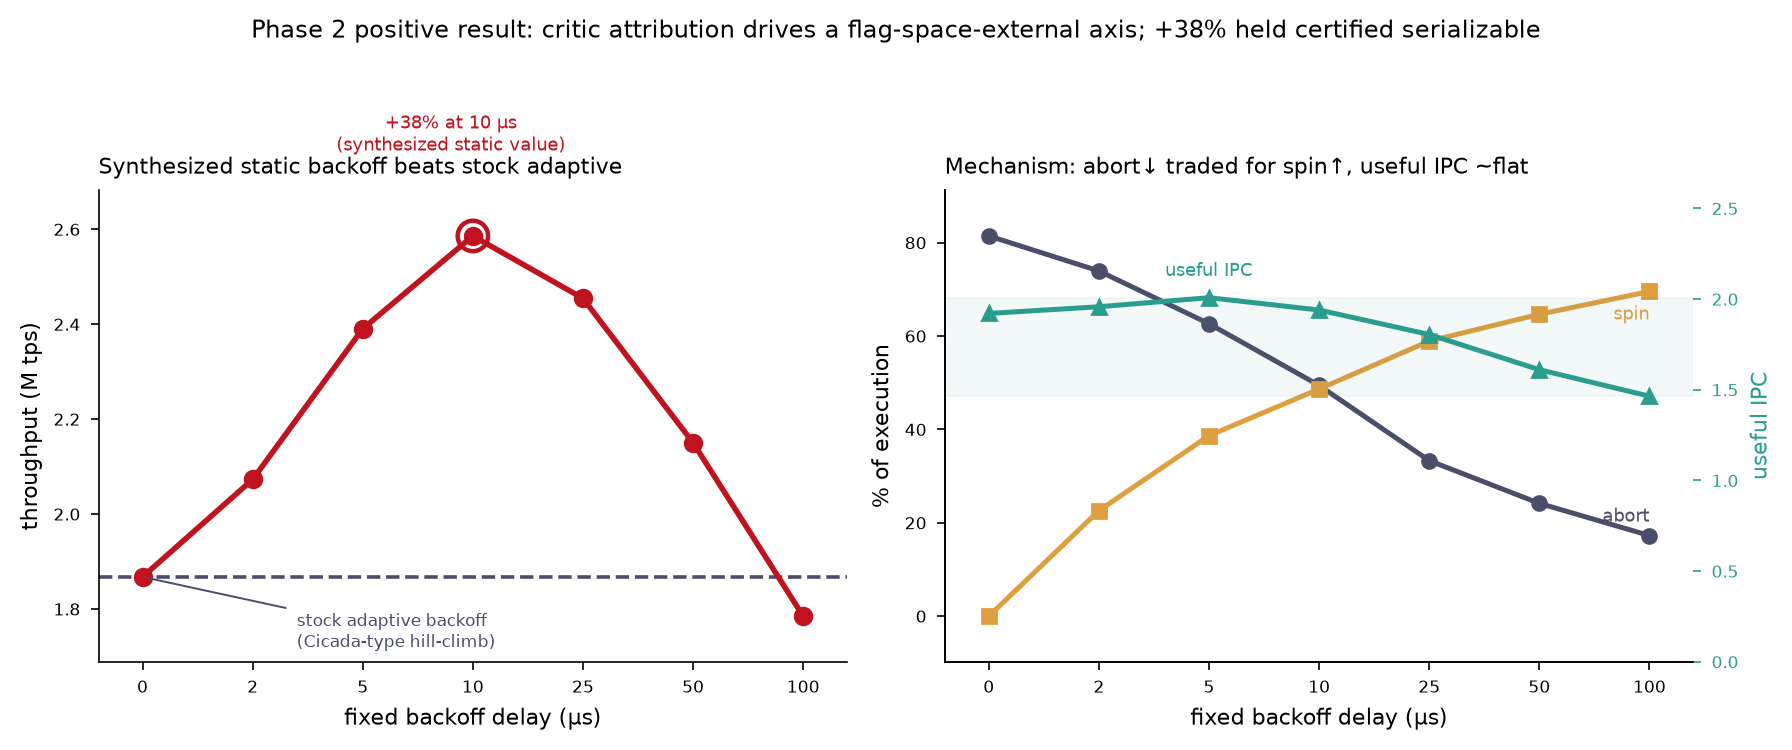
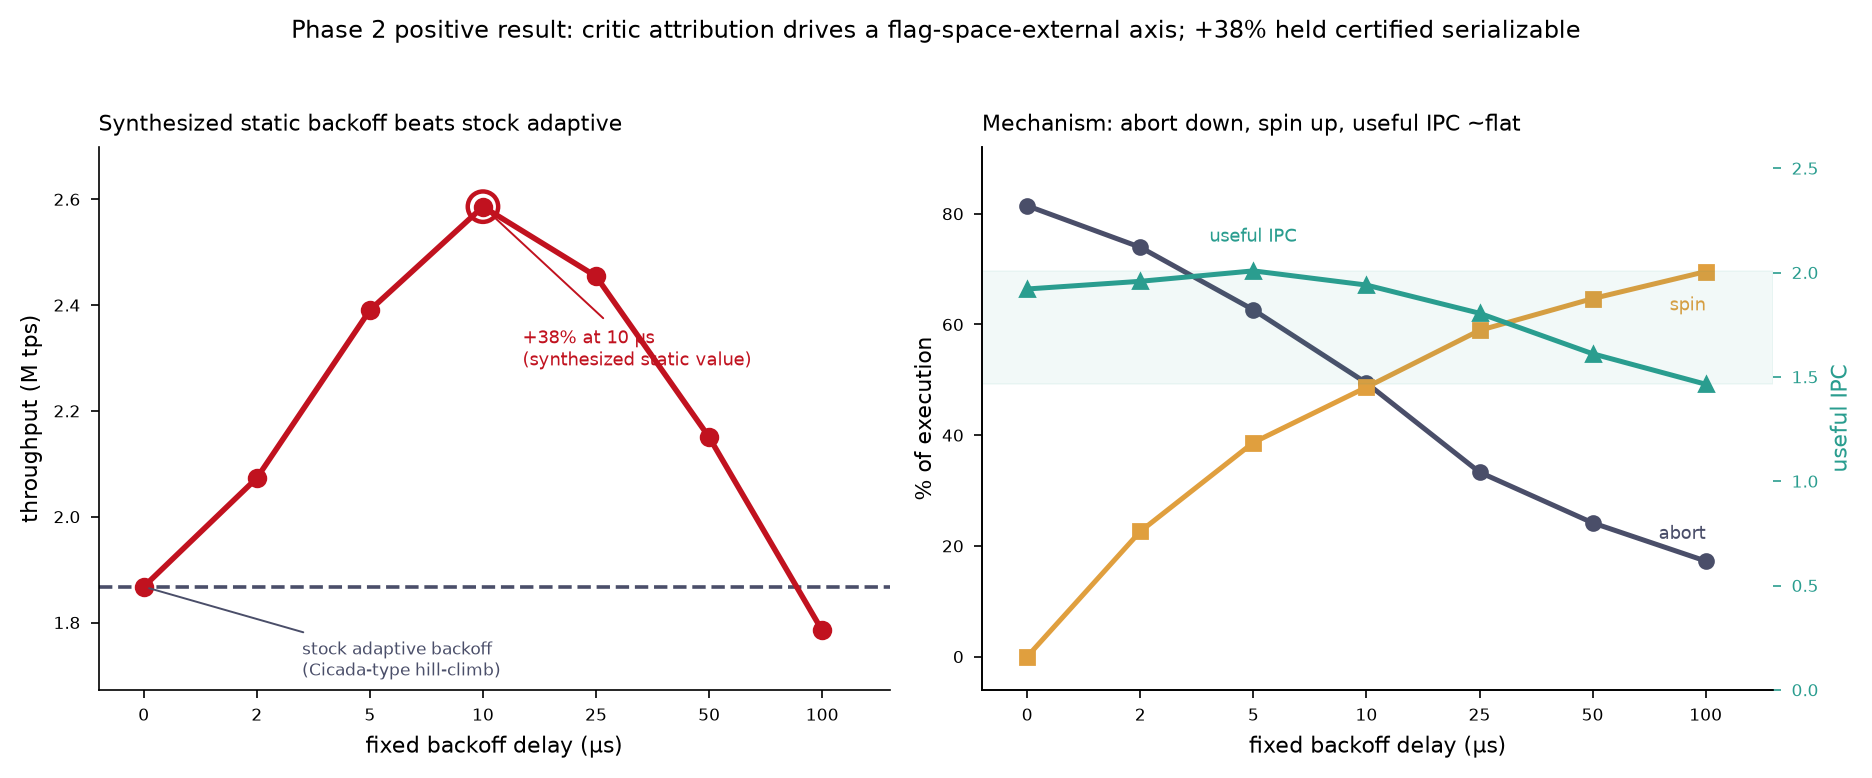
docs(paper-story): 新版スナップショットの数値・図を監査修正
- backoff 利得を当セッション算出の +38.5% (stock 1,867,747 → 10us 2,586,112 tps) に統一。
  旧 +38.3%/balanced+11.3% との計測条件差を本文に明記し headline 前の正典確定を宿題化
- abort 減を「半減」→「約4割減 (0.815→0.494, 相対39.3%)」に修正 (半減は誇張だった)
- Phase 3 進捗の裏取り記述を実態に合わせて訂正: D番号は phase3.md/phase3-main-experiment.md
  の inline 引用を転記したもので、decisions.md/worklog.md 全文の一次照合は執筆時に要と明記
- fig2 の text-overlap を修正 (+38%注記のタイトル被り・yラベルの目盛り被りを解消)、全図で検査済み
- notes に「abort 半減」誇張の顛末を追記

(paper-story 集約コミット ff3268f への追補。数値の一次ソースは output/env の backoff_profile JSON)

diff --git a/docs/paper-story/2026-07-10.md b/docs/paper-story/2026-07-10.md
@@ -56,16 +56,16 @@ CCBench（10 プロトコル × 最適化フラグ群、YCSB 対応は 7: silo/t
 
 ![Phase 2 の肯定的結果（P2-4）。左: 合成した静的 backoff（固定遅延）が stock の適応 backoff を write-heavy で +38% 上回る。stock は grid 刻み 100µs のせいで sweet spot 5–10µs に到達不能。右: 機序 — backoff 増で abort が減り spin が増えるトレードオフ、その中で useful IPC はほぼ不変（純 spin 希釈の除去として効いた）。t48/skew0.9/rr5、`backoff_profile_t48_skew0p9_rr5.json`。](figures/fig2_backoff_mechanism.png)
 
-critic の指標帰属（「適応 backoff は abort を潰せているが IPC 崩壊 = over-throttling」）が、フラグ空間の**外**の新軸「backoff 量の静的固定」の合成を駆動した。結果、certified serializable を保ったまま stock 最良を **write-heavy +38.3% / balanced +11.3%** 上回った（cross-run 再現・機序純度の分離まで敵対的検証済み）。
+critic の指標帰属（「適応 backoff は abort を潰せているが IPC 崩壊 = over-throttling」）が、フラグ空間の**外**の新軸「backoff 量の静的固定」の合成を駆動した。結果、certified serializable を保ったまま stock 最良を上回った（cross-run 再現・機序純度の分離まで敵対的検証済み）。**利得の数値は計測ソースで一本化が要る**（本文書では当セッションで `backoff_profile_t48_skew0p9_rr5.json` から直接算出した write-heavy **+38.5%**（stock 1,867,747 → 10µs 2,586,112 tps）を採る。旧文書・decisions 系の **+38.3% / balanced +11.3%** とは丸め・計測条件由来の差があり、headline 化の前に正典を確定する — notes 参照）。
 
 - stock の適応（Cicada 型 hill-climbing）が grid 刻み 100µs のせいで sweet spot 5–10µs に**物理的に到達不能**で ~560µs に駐車する（spin 87.3%）構造欠陥まで実測で特定。
-- 機序は有用 IPC の分離（`BACKOFF_NOINLINE` 計器、観測者効果 +0.76% = floor 内で inert）により「abort 半減が有用 IPC 不変のまま効いた = 純 spin 希釈の除去」と閉じた。
+- 機序は有用 IPC の分離（`BACKOFF_NOINLINE` 計器、観測者効果 +0.76% = floor 内で inert）により「abort が stock 0.815 → peak(10µs) 0.494（約 4 割減）と大きく下がりつつ有用 IPC はほぼ不変 = 純 spin 希釈の除去」と閉じた。
 
 **この対比が第 2 幕の結論を確定させる:** 「フラグ探索は自明で LLM の出る幕がない。価値は空間の外への合成にある」。否定的結果は薄い結果ではなく、「なぜコード合成（Phase 3）が要るか」を定量的に動機づける要石（keystone）。
 
 ### 第 3 幕（Phase 3、進行中）— コード粒度の合成
 
-CCBench コードの `EVOLVE-BLOCK` 領域を LLM（coder）が diff で書き、フラグ空間の外に最適化 variant を合成する。P2-4 backoff がその予告編、P2-5 の negative result が動機づけ。**進捗（すべて正典 = worklog / phase3.md / decisions.md で裏取り）:**
+CCBench コードの `EVOLVE-BLOCK` 領域を LLM（coder）が diff で書き、フラグ空間の外に最適化 variant を合成する。P2-4 backoff がその予告編、P2-5 の negative result が動機づけ。**進捗（本文書では `phase3.md` + `phase3-main-experiment.md` を直接読み、そこに inline 引用された D-番号を転記した。`decisions.md`・`worklog.md` の全文は本作成時には未照合 — D-番号の一次確認は執筆時に要）:**
 
 - **kickoff（〜2026-07-05, D30/D33/D34）:** `EVOLVE-BLOCK` 機構 + coder.md + 純 timing variant 1 本が `Tier0→pipeline.evaluate→verify→bench→WAL` を 1 周。完了条件 2 項（identity 後方互換 / 合成枝の cache-miss 新規ビルド、verify aborts 41,868 > 0）とも WAL 機械判定 10/10 PASS。identity honest の一次防壁を preprocess 後ハッシュ（source_digest）に、観測者効果分離を diff-of-diffs（`assert_trace_diff_matches_head`）に置いた（方針 A）。
 - **段 2〜3（2026-07-06, D36/D37/D38）:** S2 verify 構成確定（gate 3 点 all_pass）、S4 load_rejections consumer 実体化（赤 → 構造化 → critic が形状別に帰属、実走赤 2 本）、auditor.md を read-only で生成 + write_set 被覆 assert + in-class positive control。

diff --git a/docs/paper-story/notes-2026-07-10.md b/docs/paper-story/notes-2026-07-10.md
@@ -10,7 +10,8 @@
 ## 数値の裏取りで確認した細部（執筆時に効く）
 - write-heavy の「有意に有害」は **exact permutation p=2.52×10⁻⁴**（`correction_2026_07_03`）が正。旧記述の一部にあった「p<1e-4」は方式未記録 Monte Carlo 由来の過大表示として訂正済み。**論文には訂正後の値を使うこと。**
 - backoff の gain は stock（`backoff_us=0`, adaptive）比で **+38.5%**（10µs で peak）。旧文書の「+38.3%」とは丸め由来の 0.2pt 差。どちらを正典にするか執筆時に一本化が要る（`p2-2-summary` 系と `backoff_profile` 系で計測条件が違う可能性 — 要確認）。
-- useful IPC はピーク近傍（5µs）で 2.008 と最大、stock 1.921 から微増 → 「useful IPC 不変のまま abort 半減」の主張は「ほぼ不変（floor 内）」が正確。図では帯（min–max span）で「ほぼ不変」を表現した。
+- useful IPC はピーク近傍（5µs）で 2.008 と最大、stock 1.921 から微増 → 「useful IPC 不変」の主張は「ほぼ不変（floor 内）」が正確。図では帯（min–max span）で「ほぼ不変」を表現した。
+- **「abort 半減」は誇張。** 実測は stock（0µs）0.815 → peak（10µs）0.494 = **約 4 割減（相対 39.3%）**で、半減（0.408）には届かない。本文・図とも「約 4 割減／abort down」に修正済み。定性的結論（大幅な abort 減・useful IPC ほぼ不変・+38% 利得）は不変。
 
 ## ストーリー構造
 - 旧 §4（見落とし素材）と §5（過大主張チェックリスト）は情報密度が高く、下書きでは §5・§7 に圧縮した。**フル版の一次資料ポインタは旧文書に残っている**ので、執筆時は両方参照するのが安全。
